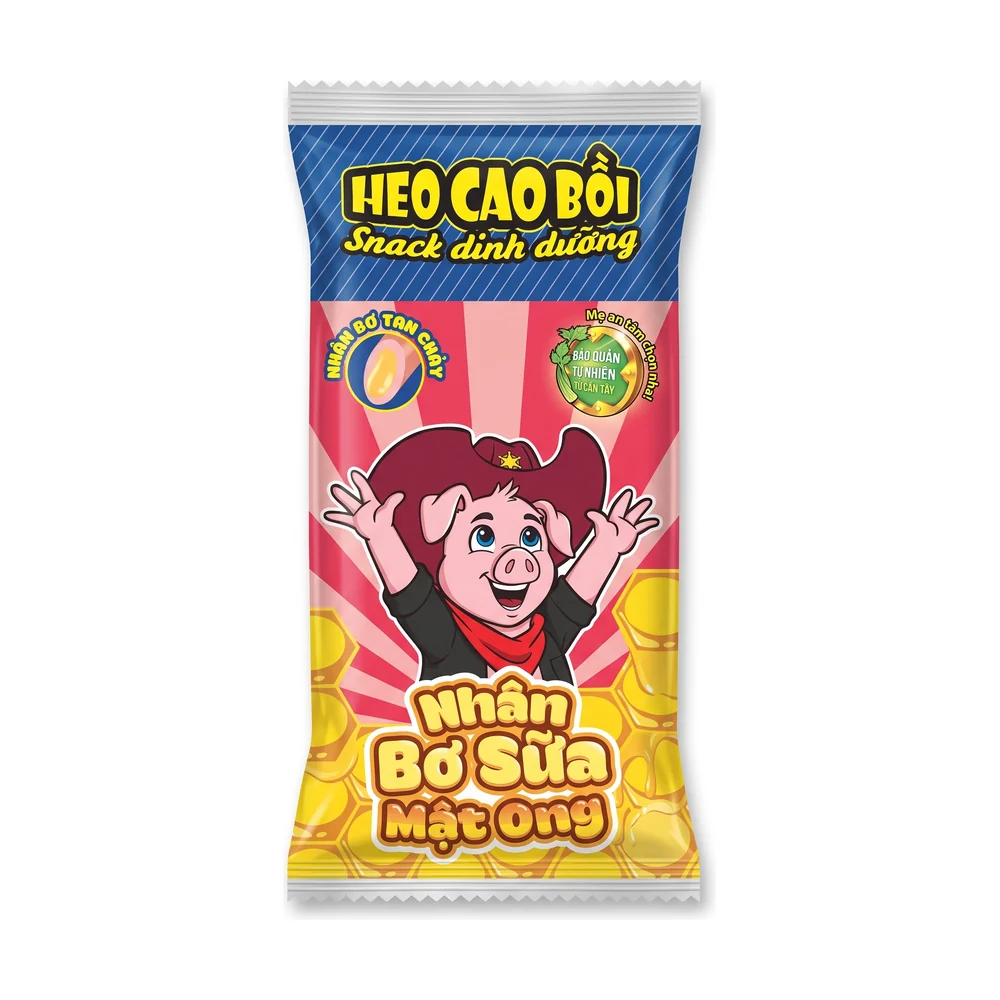
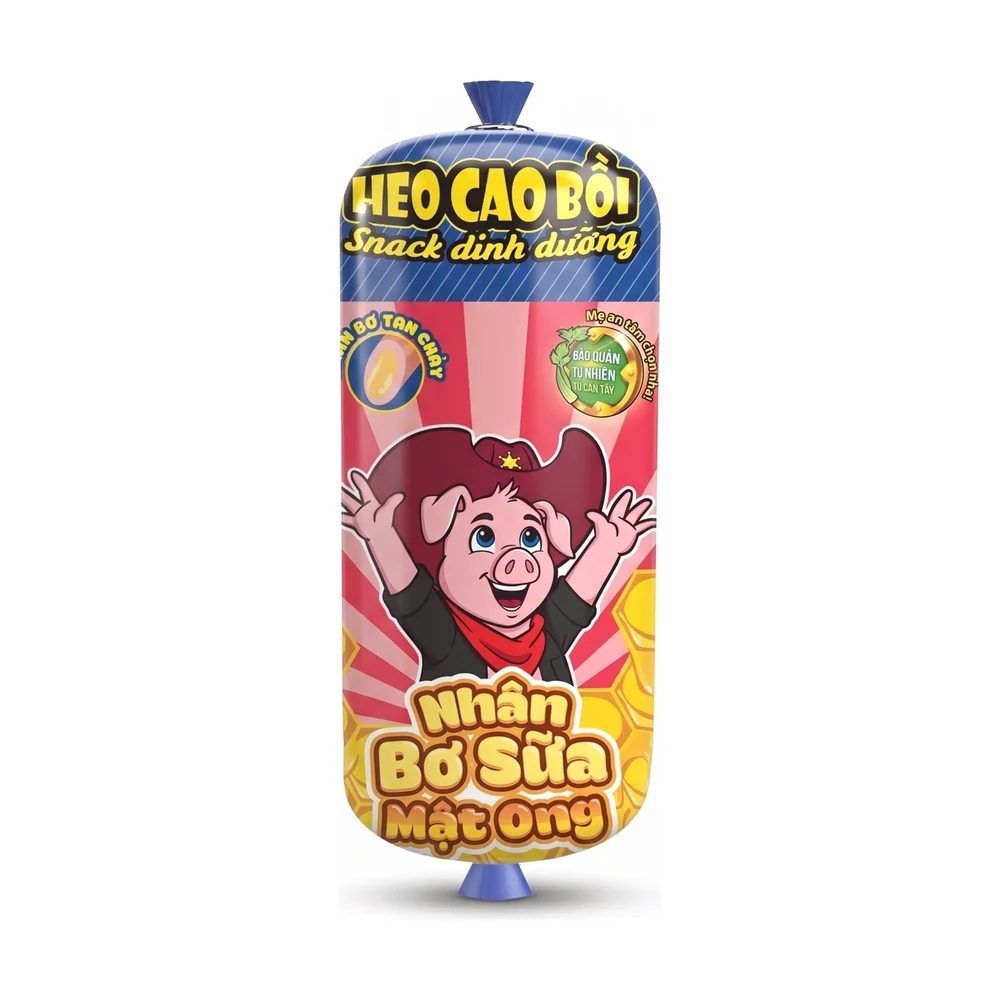
review(heo-cao-boi): 3 products — 0 keep, 3 fixed, 0 need photo, 0 asked
Heo Cao Bồi 32 g redrawn as the single tied sausage stick actually sold.

Claude-Session: https://claude.ai/code/session_01DMTF5GjS3P9om8RxKa1WuX

Changed region(s): [[0.279, 0.062, 0.713, 0.93]]

diff --git a/STATUS.md b/STATUS.md
@@ -2,7 +2,7 @@
 
 > Sinh tự động bởi `node tools/status.mjs`. **Không sửa tay.** Nguồn sự thật là `meta.json` của từng SP.
 
-Tổng 2509 SP · đã xem 2509 (100%) · xong 2289 · chờ chủ duyệt 92 · cần chụp 127 · hỏi chủ 1
+Tổng 2509 SP · đã xem 2509 (100%) · xong 2288 · chờ chủ duyệt 96 · cần chụp 124 · hỏi chủ 1
 
 Thứ tự làm: từ trên xuống (doanh số 90 ngày giảm dần). `xong` = giữ nguyên + đã lên web.
 
@@ -68,7 +68,7 @@ Thứ tự làm: từ trên xuống (doanh số 90 ngày giảm dần). `xong` =
 | 58 | Cocktail lon RTD | 0.0tr | 15 | 0 | 3 | 0 | 0 | 0 | 0 | 0 | 12 |
 | 59 | Sữa chua kiểu Hy Lạp | 0.0tr | 15 | 0 | 0 | 0 | 0 | 0 | 0 | 0 | 15 |
 | 60 | Măng & rau ngâm cay | 0.0tr | 15 | 0 | 0 | 0 | 8 | 0 | 1 | 0 | 6 |
-| 61 | Xúc xích lắc & snack | 0.0tr | 15 | 0 | 0 | 0 | 2 | 0 | 0 | 0 | 13 |
+| 61 | Xúc xích lắc & snack | 0.0tr | 15 | 0 | 0 | 0 | 0 | 0 | 3 | 0 | 12 |
 | 62 | Bánh pie / cake mềm | 0.0tr | 14 | 0 | 0 | 0 | 1 | 0 | 2 | 0 | 11 |
 | 63 | Board games/ Card games | 0.0tr | 14 | 0 | 0 | 0 | 0 | 0 | 0 | 0 | 14 |
 | 64 | Mì cay (Ly/Tô/Cốc) | 0.0tr | 14 | 0 | 0 | 0 | 0 | 0 | 0 | 0 | 14 |
@@ -193,7 +193,7 @@ Thứ tự làm: từ trên xuống (doanh số 90 ngày giảm dần). `xong` =
 | 183 | Đồ uống nội địa | 0.0tr | 2 | 0 | 0 | 0 | 0 | 0 | 0 | 0 | 2 |
 | 184 | Gin & Tequila | 0.0tr | 2 | 0 | 1 | 0 | 0 | 0 | 0 | 0 | 1 |
 | 185 | Sáp khử mùi | 0.0tr | 2 | 0 | 0 | 0 | 0 | 0 | 1 | 0 | 1 |
-| 186 | Socola trứng / đồ chơi | 0.0tr | 2 | 0 | 0 | 0 | 1 | 0 | 0 | 0 | 1 |
+| 186 | Socola trứng / đồ chơi | 0.0tr | 2 | 0 | 0 | 0 | 0 | 0 | 1 | 0 | 1 |
 | 187 | Thịt khô đóng gói khác | 0.0tr | 2 | 0 | 0 | 0 | 0 | 0 | 0 | 0 | 2 |
 | 188 | Makgeolli | 0.0tr | 2 | 0 | 0 | 0 | 0 | 0 | 0 | 0 | 2 |
 | 189 | Kem & Đồ đông lạnh | 0.0tr | 2 | 0 | 0 | 0 | 0 | 0 | 0 | 0 | 2 |

diff --git a/categories/2549795-xuc-xich-lac-snack/67376054-xuc-xich-tiet-trung-heo-cao-boi-nhan-pho-mai-12/description.md b/categories/2549795-xuc-xich-lac-snack/67376054-xuc-xich-tiet-trung-heo-cao-boi-nhan-pho-mai-12/description.md
@@ -1,4 +1,4 @@
-Xúc xích tiệt trùng Heo Cao Bồi nhân phô mai, cây nhỏ bóc vỏ ăn liền, tiện làm món ăn vặt.
+Xúc xích tiệt trùng Heo Cao Bồi nhân phô mai vị nguyên bản, dòng snack dinh dưỡng, nhân phô mai tan chảy bên trong. Món ăn vặt tiện lợi, xé ăn ngay.
 
-Quy cách: 1 túi 15 cây × 32 g
+Quy cách: 32 g · cây (bán lẻ từng cây)
 Nhà sản xuất/thương hiệu: Heo Cao Bồi

diff --git a/categories/2549795-xuc-xich-lac-snack/67860845-xuc-xich-tiet-trung-heo-cao-boi-vi-bap-32gr-cay/description.md b/categories/2549795-xuc-xich-lac-snack/67860845-xuc-xich-tiet-trung-heo-cao-boi-vi-bap-32gr-cay/description.md
@@ -1,4 +1,4 @@
-Xúc xích tiệt trùng Heo Cao Bồi vị bắp, cây nhỏ bóc vỏ ăn liền, tiện làm món ăn vặt.
+Xúc xích tiệt trùng Heo Cao Bồi nhân phô mai vị bắp, dòng snack dinh dưỡng, nhân phô mai tan chảy bên trong. Món ăn vặt tiện lợi, xé ăn ngay.
 
-Quy cách: 32 g · cây
+Quy cách: 32 g · cây (bán lẻ từng cây)
 Nhà sản xuất/thương hiệu: Heo Cao Bồi

diff --git a/categories/2549266-socola-trung-do-choi/66473311-trung-socola-wolfoo-voi-do-choi-ngau-nhien-20g/description.md b/categories/2549266-socola-trung-do-choi/66473311-trung-socola-wolfoo-voi-do-choi-ngau-nhien-20g/description.md
@@ -1,4 +1,4 @@
-Trứng sô cô la Wolfoo kèm một món đồ chơi ngẫu nhiên bên trong.
+Trứng sô cô la Wolfoo (Funday) kèm một món đồ chơi bất ngờ bên trong. Vỏ trứng có hai mẫu Lucy Magic Egg và Super Wolfoo Egg, giao ngẫu nhiên.
 
 Quy cách: 20 g · quả
-Nhà sản xuất/thương hiệu: Wolfoo
+Nhà sản xuất/thương hiệu: Funday · Wolfoo
